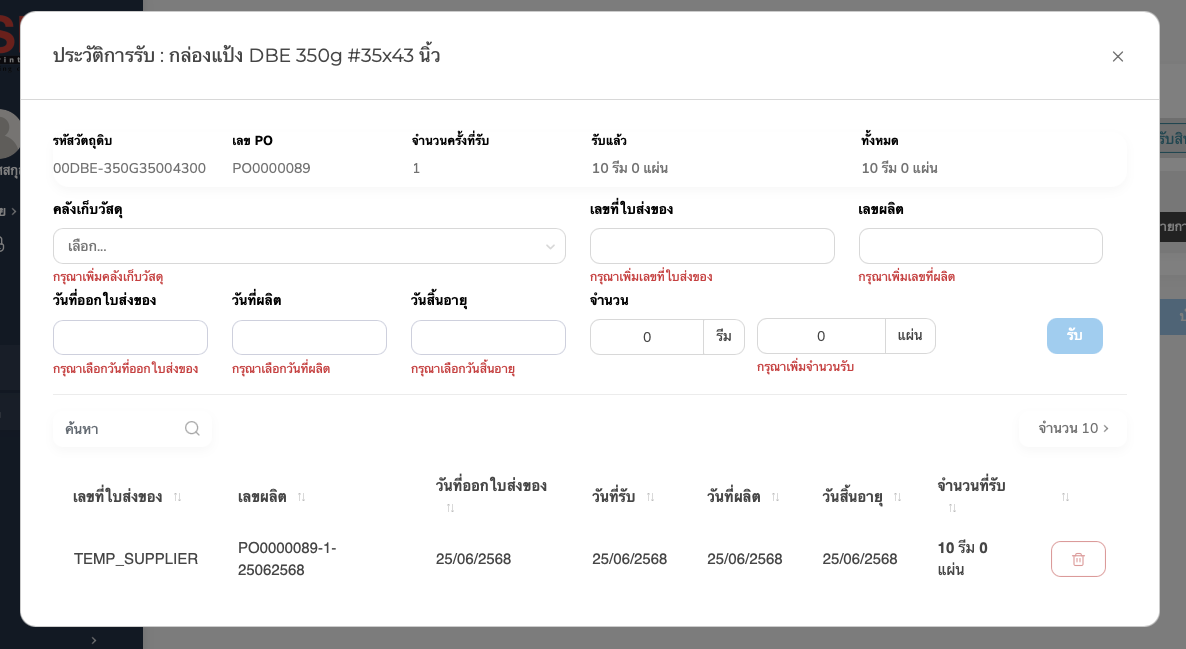
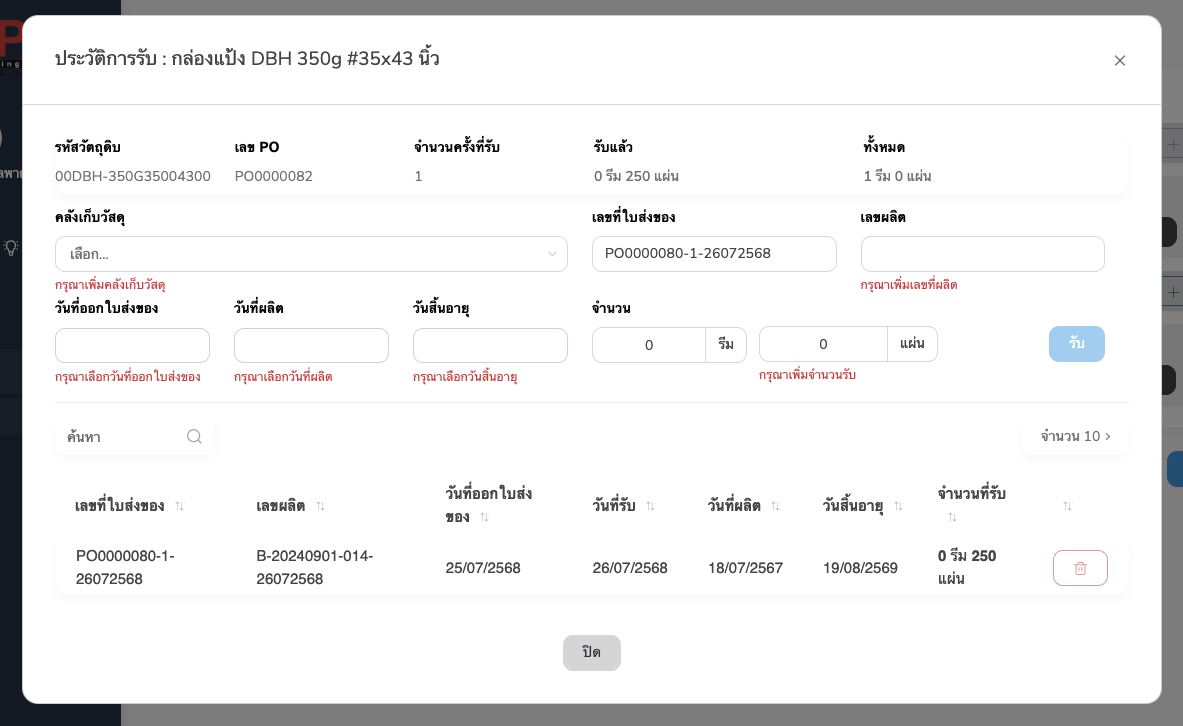
add purchasing and production image

diff --git a/purchasing.html b/purchasing.html
@@ -19,11 +19,9 @@
         <p class="image-caption">Figure 1: Receiving page</p>
         <h4>ส่วนประกอบของหน้า</h4>
         <ul>
+          <li>ค้นหาโดยเลข PO: ค้นหารายการด้วยเลขใบสั่งซื้อ (PO number)</li>
           <li>
-            ค้นหาโดยเลข PO: ค้นหารายการด้วยเลขใบสั่งซื้อ (PO number)
-          </li>
-          <li>
-            แท็บสถานะ: 
+            แท็บสถานะ:
             <ul>
               <li>กำลังดำเนินการ – รายการที่ยังรับสินค้าไม่ครบหรือยังไม่รับ</li>
               <li>รับเสร็จสิ้น – รายการที่รับสินค้าเรียบร้อยแล้ว</li>
@@ -32,28 +30,169 @@
         </ul>
         <h3>รายการรับวัสดุ</h3>
         <div class="image-illustration">
-          <img src="./images/purchasing/material-receiving.png" alt="material-receiving" />
+          <img
+            src="./images/purchasing/material-receiving.png"
+            alt="material-receiving"
+          />
         </div>
         <p class="image-caption">Figure 2: Material receiving page</p>
         <ul>
+          <li>ปุ่ม “รายการตรวจสอบ”: ใช้สำหรับเปิดรายละเอียดการตรวจสอบคุณภาพ</li>
           <li>
-            ปุ่ม “รายการตรวจสอบ”: ใช้สำหรับเปิดรายละเอียดการตรวจสอบคุณภาพ
+            ปุ่ม “+ รับสินค้า”: ใช้สำหรับเพิ่มรายการรับใหม่จาก PO เดิม
+            เมื่อกดจะเปิด modal สำหรับกรอกข้อมูล และประวัติการรับ
           </li>
-          <li>
-            ปุ่ม “+ รับสินค้า”: ใช้สำหรับเพิ่มรายการรับใหม่จาก PO เดิม เมื่อกดจะเปิด modal สำหรับกรอกข้อมูล และประวัติการรับ
-          </li>
+          <li>ปุ่ม “ยกเลิก”: ใช้สำหรับยกเลิกการรับวัสดุ</li>
           <li>ปุ่ม “บันทึก”: ใช้สำหรับบันทึกการรับวัสดุในหน้านี้</li>
         </ul>
         <div class="image-illustration">
-          <img src="./images/purchasing/receiving-history.png" alt="receiving-history" />
+          <img
+            src="./images/purchasing/receiving-history.png"
+            alt="receiving-history"
+          />
         </div>
         <p class="image-caption">Figure 3: Receiving history modal</p>
-        <p>เลือกคลังเก็บวัสดุ กรอกเลขที่ใบส่งของ เลขผลิต วันที่ออกใบส่งของ วันที่ผลิต วันสิ้นอายุ และจำนวน แล้วกดปุ่มรับ</p>
+        <p>
+          เลือกคลังเก็บวัสดุ กรอกเลขที่ใบส่งของ เลขผลิต วันที่ออกใบส่งของ
+          วันที่ผลิต วันสิ้นอายุ และจำนวน แล้วกดปุ่มรับ
+        </p>
+        <div class="image-illustration">
+          <img
+            src="./images/purchasing/receiving-matched.png"
+            alt="receiving-matched"
+          />
+        </div>
+        <p class="image-caption">Figure 4: Receiving matched modal</p>
+        <p>
+          ถ้ากดยกเลิกการรับวัสดุที่ถูก matching แล้ว จะแสดงรายการที่ต้องไปยกเลิก
+          matching ก่อน จึงจะยกเลิกการรับนั้นได้
+        </p>
       </div>
 
       <div class="content-section">
         <h2 id="purchase-order">รายการคำสั่งซื้อ</h2>
         <p>เพิ่มหรือแก้ไขคำสั่งซื้อ</p>
+        <div class="image-illustration">
+          <img
+            src="./images/purchasing/purchase-order.png"
+            alt="purchase-order"
+          />
+        </div>
+        <p class="image-caption">Figure 5: Purchase order page</p>
+        <p>
+          แสดงตารางรายการของคำสั่งซื้อ ซื่งประกอบด้วย เลขที่คำสั่งซื้อ
+          ผู้จำหน่าย วันที่สร้าง ประเภท และ สถานะ
+        </p>
+        <h3>รายละเอียดคำสั่งซื้อ</h3>
+        <div class="image-illustration">
+          <img
+            src="./images/purchasing/purchase-order-detail.png"
+            alt="purchase-order-detail"
+          />
+        </div>
+        <p class="image-caption">Figure 6: Purchase order detail</p>
+        <p>แสดงรายละเอียดของคำสั่งซื้อ</p>
+        <ul>
+          <li>ปุ่ม “พิมพ์”: ใช้สำหรับพิมพ์เอกสารรายการการสั่งซื้อ</li>
+          <li>
+            รายละเอียดส่วนบน: ประกอบด้วย เลขที่คำสั่งซื้อ ประเภท ผู้จำหน่าย
+            ที่อยู่จัดจำหน่าย น้ำหนักขั้นต่ำในการจัดส่ง(กก.) น้ำหนักรวม(กก.)
+            ราคารวมสูงสุด ราคารวม และสถานะ
+          </li>
+          <li>รายละเอียดส่วนล่าง: แสดงรายการวัตถุดิบ และจำนวนที่สั่งซื้อ</li>
+        </ul>
+        <h3>เพิ่มคำสั่งซื้อ</h3>
+        <div class="image-illustration">
+          <img
+            src="./images/purchasing/add-purchase-order.png"
+            alt="purchase-order-detail"
+          />
+        </div>
+        <p class="image-caption">Figure 7: Add purchase order</p>
+        <p>
+          กรอกรายละเอียดส่วนบน และเมื่อกดปุ่ม “+ รายการสั่งซื้อ” จะแสดง modal
+          รายการวัตถุดิบต่างกันตามประเภทของคำสั่งซื้อ
+          เมื่อเพิ่มรายการแล้วจึงกดบันทึก แล้วจะสามารถกดเสร็จสิ้นได้
+        </p>
+        <h3>ประเภทคำสั่งซื้อ</h3>
+        <div class="image-illustration">
+          <img
+            src="./images/purchasing/purchase-order-type.png"
+            alt="purchase-order-type"
+          />
+        </div>
+        <p class="image-caption">Figure 8: Purchase order type</p>
+        <h3>เพิ่มรายการของประเภทสั่งสำรองวัตถุดิบ</h3>
+        <div class="image-illustration">
+          <img
+            src="./images/purchasing/add-purchase-order-01-modal-material.png"
+            alt="add-purchase-order-01-modal-material"
+          />
+        </div>
+        <p class="image-caption">
+          Figure 9: Add purchase order material modal PO01
+        </p>
+        <p>กด + เลือกวัตถุดิบที่ต้องการ</p>
+        <h3>เพิ่มรายการของประเภทเรียกวัตถุดิบ</h3>
+        <div class="image-illustration">
+          <img
+            src="./images/purchasing/add-purchase-order-02-modal-purchase-item.png"
+            alt="add-purchase-order-02-modal-purchase-item"
+          />
+        </div>
+        <p class="image-caption">
+          Figure 10: Add purchase order material modal PO02 purchase item
+        </p>
+        <p>
+          เลือกเป็น Purchase Item แล้วเลือก batch supplier และกด +
+          เลือกวัตถุดิบที่ต้องการ
+        </p>
+        <div class="image-illustration">
+          <img
+            src="./images/purchasing/add-purchase-order-02-modal-material.png"
+            alt="add-purchase-order-02-modal-material"
+          />
+        </div>
+        <p class="image-caption">
+          Figure 11: Add purchase order material modal PO02 material
+        </p>
+        <p>
+          เลือกเป็น Material แล้วเลือก batch supplier และกด +
+          เลือกวัตถุดิบที่ต้องการ
+        </p>
+        <h3>เพิ่มรายการของประเภทสั่งซื้อวัตถุดิบ</h3>
+        <div class="image-illustration">
+          <img
+            src="./images/purchasing/add-purchase-order-03-modal-purchase-item.png"
+            alt="add-purchase-order-03-modal-purchase-item"
+          />
+        </div>
+        <p class="image-caption">
+          Figure 12: Add purchase order material modal PO03 purchase item
+        </p>
+        <p>เลือกเป็น Purchase Item แล้วกด + เลือกวัตถุดิบที่ต้องการ</p>
+        <div class="image-illustration">
+          <img
+            src="./images/purchasing/add-purchase-order-03-modal-material.png"
+            alt="add-purchase-order-03-modal-material"
+          />
+        </div>
+        <p class="image-caption">
+          Figure 13: Add purchase order material modal PO03 material
+        </p>
+        <p>เลือกเป็น Material แล้วกด + เลือกวัตถุดิบที่ต้องการ</p>
+        <h3>รายการที่ต้องสั่งซื้อ</h3>
+        <div class="image-illustration">
+          <img
+            src="./images/purchasing/purchase-item.png"
+            alt="purchase-item"
+          />
+        </div>
+        <p class="image-caption">Figure 14: Purchase item tab</p>
+        <p>
+          แสดงตารางรายการที่ต้องสั่งซื้อ ซื่งประกอบด้วย รหัส ชื่อวัสดุ
+          ชื่อสินค้า เลขผลิต. จำนวน และวันที่สร้าง
+        </p>
       </div>
     </template>
   </body>

diff --git a/production.html b/production.html
@@ -81,13 +81,13 @@
           <li>Cavity: จำนวนชิ้นงานต่อ 1 ใบพิมพ์</li>
         </ul>
 
-        <h3 id="producing">สร้างแบบและสั่งผลิต</h3>
+        <h3>สร้างแบบและสั่งผลิต</h3>
         <div class="image-illustration">
           <img src="./images/production/layout-to-produce.png" alt="layout-to-produce" />
         </div>
         <p class="image-caption">Figure 3: Layout to produce page</p>
 
-        <h3 id="producing">เสร็จสิ้นการผลิต</h3>
+        <h3>เสร็จสิ้นการผลิต</h3>
         <div class="image-illustration">
           <img src="./images/production/production-completed.png" alt="production-completed" />
         </div>
@@ -97,11 +97,73 @@
       <div class="content-section">
         <h2 id="daily-plan">แผนผลิตประจำวัน</h2>
         <p>แผนผลิตประจำวัน (Daily Production Plan)</p>
+        <h3>กำหนดเครื่องจักร</h3>
+        <div class="image-illustration">
+          <img src="./images/production/daily-plan-machine.png" alt="daily-plan-machine" />
+        </div>
+        <p class="image-caption">Figure 5: Daily plan define machine page</p>
+        <p>เลือกเครื่องจักรของขั้นตอนต่างๆ แล้วกดปุ่มสร้าง หรือกดปุ่มสร้างทันที (สามารถกำหนดได้ภายหลัง)</p>
+
+        <h3>ปรับตั้งค่าการผลิต</h3>
+        <div class="image-illustration">
+          <img src="./images/production/daily-plan-config.png" alt="daily-plan-config" />
+        </div>
+        <p class="image-caption">Figure 6: Daily plan configuration page</p>
+        <p>กดเลือกสินค้า เพื่อปรับตั้งค่าการผลิต โดยจะแสดง modal แก้ไขแผนผลิตประจำวัน</p>
+        <h4>แก้ไขแผนผลิตประจำวัน</h4>
+        <div class="image-illustration">
+          <img src="./images/production/daily-plan-edit.png" alt="daily-plan-edit" />
+        </div>
+        <p class="image-caption">Figure 7: Edit daily plan page</p>
+        <p>สามารถแก้ไขเครื่องจักร และเพิ่มหมายเหตุได้ เมื่อแก้ไขแล้วจึงกดปุ่มบันทึก</p>
+
+        <h3>กำหนดแผนการผลิต</h3>
+        <div class="image-illustration">
+          <img src="./images/production/daily-plan-production.png" alt="daily-plan-production" />
+        </div>
+        <p class="image-caption">Figure 8: Daily plan production all plan</p>
+        <p>แสดงตารางรายการของแผนทั้งหมด สามารถเลือกกำหนดวันของแต่ละงานได้</p>
+        <div class="image-illustration">
+          <img src="./images/production/daily-plan-production-date.png" alt="daily-plan-production-date" />
+        </div>
+        <p class="image-caption">Figure 9: Daily plan production defined plan</p>
+        <p>แสดงตารางรายการของแผนที่กำหนดวันแล้ว สามารถแก้ไขวันของแต่ละงานได้</p>
+
+        <h3>สินค้าและการจัดส่ง</h3>
+        <div class="image-illustration">
+          <img src="./images/production/product-and-delivery.png" alt="product-and-delivery" />
+        </div>
+        <p class="image-caption">Figure 10: Product and delivery</p>
+        <p>แสดงตารางรายการของสินค้าที่ผลิตเสร็จสิ้น กดปุ่มสีฟ้าเพื่อรับสินค้าเข้าคลัง และกดปุ่มสีเหลืองเพื่อส่งสินค้าให้ลูกค้า</p>
       </div>
 
       <div class="content-section">
         <h2 id="operation-plan">รายการผลิต</h2>
         <p>รายการผลิต (operator)</p>
+        <div class="image-illustration">
+          <img src="./images/production/oparetion-plan.png" alt="oparetion-plan" />
+        </div>
+        <p class="image-caption">Figure 11: Operation plan</p>
+        <p>แสดงตารางรายการผลิตของงานต่างๆ โดยค่าเริ่มต้นจะแสดงรายการผลิตของวันปัจจุบัน</p>
+        <h3>ใบปฏิบัติงาน</h3>
+        <div class="image-illustration">
+          <img src="./images/production/operation-document.png" alt="operation-document" />
+        </div>
+        <p class="image-caption">Figure 12: Operation document</p>
+        <p>แสดงรายละเอียดของงานดังกล่าว กดปุ่มเริ่มการทำงาน เพื่อเข้าไปทำงาน</p>
+        <div class="image-illustration">
+          <img src="./images/production/operation-document-2.png" alt="operation-document-2" />
+        </div>
+        <p class="image-caption">Figure 13: Operation document form 2</p>
+        <div class="image-illustration">
+          <img src="./images/production/operation-document-3.png" alt="operation-document-3" />
+        </div>
+        <p class="image-caption">Figure 14: Operation document form 3</p>
+        <div class="image-illustration">
+          <img src="./images/production/operation-document-4.png" alt="operation-document-4" />
+        </div>
+        <p class="image-caption">Figure 15: Operation document form 4</p>
+        <p>กรอกรายละเอียดในแต่ละฟอร์ม แล้วจึงกดปุ่มบันทึก หรือกดปุ่มเสร็จสิ้นทันที</p>
       </div>
 
       <div class="content-section">
@@ -117,6 +179,29 @@
       <div class="content-section">
         <h2 id="cutting-list">รายการสั่งงานตัด</h2>
         <p>รายการสั่งงานตัด</p>
+        <div class="image-illustration">
+          <img src="./images/production/cutting-list.png" alt="cutting-list" />
+        </div>
+        <p class="image-caption">Figure 16: Cutting list</p>
+        <p>แสดงรายการสั่งตัดที่มีสถานะ Pending ถ้ารายการที่ต้องการได้ตรวจสอบแล้ว สามารถเข้าไปตัดได้ ถ้ายังไม่ได้ตรวขสอบ ให้กดเลือกแบทช์ และกดปุ่มรายการตรวจสอบ</p>
+        <h3>รายการตรวจสอบ</h3>
+        <div class="image-illustration">
+          <img src="./images/production/check-list.png" alt="check-list" />
+        </div>
+        <p class="image-caption">Figure 17: Check list</p>
+        <p>แสดงรายการที่ต้องตรวจสอบ เลือก Passed หรือ Failed และกดปุ่มที่ต้องการ</p>
+        <h3>รายละเอียดของรายการสั่งงานตัด</h3>
+        <div class="image-illustration">
+          <img src="./images/production/cutting-list-detail.png" alt="cutting-list-detail" />
+        </div>
+        <p class="image-caption">Figure 18: Cutting list detail</p>
+        <p>กดปุ่มยืนยันงานตัดในแต่ละ layout เมื่อตัดแล้วทั้งหมด จึงจะสามารถกดปุ่มปิดงานได้</p>
+        <h3>รายการสั่งงานตัดเสร็จสิ้น</h3>
+        <div class="image-illustration">
+          <img src="./images/production/cutting-list-submitted.png" alt="cutting-list-submitted" />
+        </div>
+        <p class="image-caption">Figure 19: Cutting list submitted</p>
+        <p>แสดงรายการงานตัดที่เสร็จสิ้นแล้ว</p>
       </div>
     </template>
   </body>
